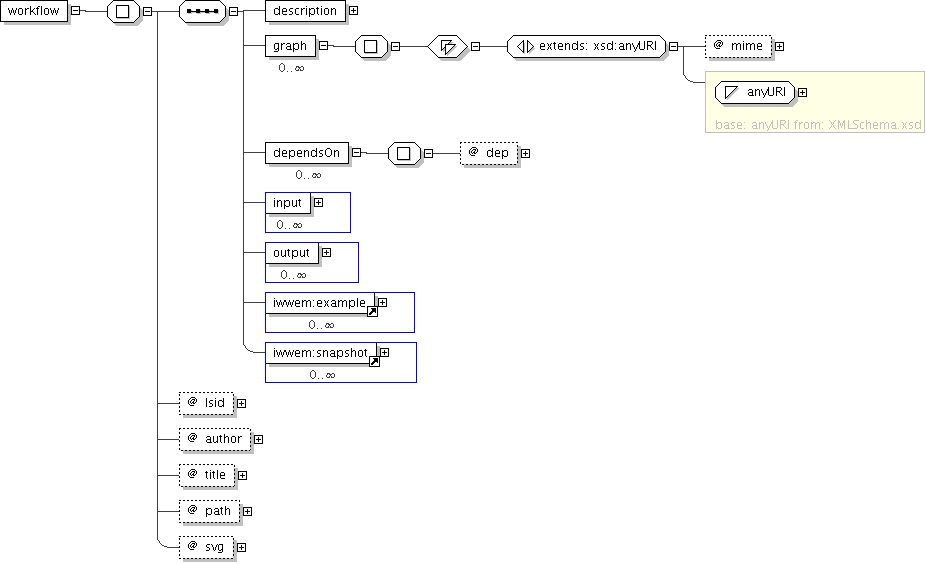
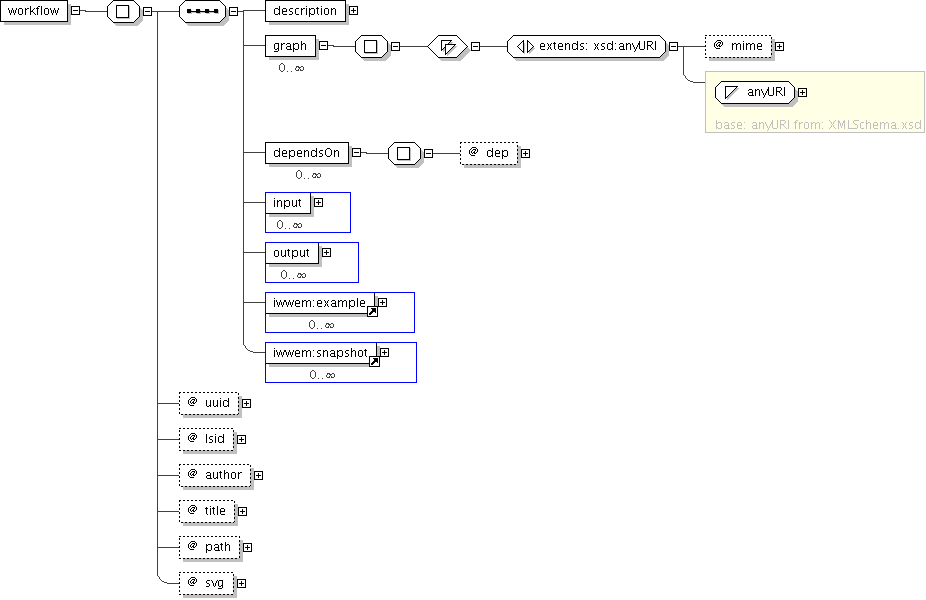
*	Added a more compact version of INB logotype. 	Small and tiny versions in PNG have been generated. *	Small logotype has been integrated into documentation and 	tiny one has been integrated into workflowmanager.html and 	enactionviewer.html. *	Added "id" parameter to workflowmanager frontend, which
git-svn-id: http://trac.bioinfo.cnio.es/svn/iwwem/trunk@188 d1dc078d-3102-4980-90c0-2a41560b4363

diff --git a/weblauncher/docs/frontends.html b/weblauncher/docs/frontends.html
@@ -5,7 +5,7 @@
 <style type="text/css">
 .frontend {
 	font-weight: bold;
-	font-family: "Lucida Console","Courier New", Courier;
+	font-family: Arial, Helvetica, Sans-Serif;
 }
 
 .parameter {
@@ -19,32 +19,36 @@
 }
 </style>
 <body>
-<div align="center"><h1>INB IWWE&amp;M v0.6 frontends ($Rev$, $Date$)</h1></div>
+<table style="margin:0px;padding:0px;width:100%;"><tr>
+<td style="text-align:left;font-style:italic;">$Date$</td>
+<td style="text-align:right;font-style:italic;">$Rev$</td>
+</tr></table>
+<div align="center"><h1 style="font-size:32px;"><a href="http://www.inab.org/"><img src="logo-inb-small.png" style="vertical-align:middle" alt="INB" title="INB" border="0"></a> <a href="http://ubio.bioinfo.cnio.es/biotools/IWWEM">IWWE&amp;M</a> v0.6 frontends</h1></div>
 Currently, IWWE&amp;M has 4 frontends, used by AJAX GUIs:
 <ul>
-<li><tt><a href="#workflowmanager">workflowmanager</a></tt></li>
-<li><tt><a href="#enactionlauncher">enactionlauncher</a></tt></li>
-<li><tt><a href="#enactionstatus">enactionstatus</a></tt></li>
-<li><tt><a href="#IWWEMproxy">IWWEMproxy</a></tt></li>
+<li><span class="frontend"><a href="#workflowmanager">workflowmanager</a></span></li>
+<li><span class="frontend"><a href="#enactionlauncher">enactionlauncher</a></span></li>
+<li><span class="frontend"><a href="#enactionstatus">enactionstatus</a></span></li>
+<li><span class="frontend"><a href="#IWWEMproxy">IWWEMproxy</a></span></li>
 </ul>
 <hr>
 
-<p>All these frontends use the concept of IDs: workflow IDs, example IDs, enaction IDs, snapshot IDs. All the unqualified IDs have the format of an <a href="http://en.wikipedia.org/wiki/UUID">UUID</a>, but there are some differences when the IDs are fully quilified:</p>
+<p>All these frontends use the concept of Ids: workflow Ids, example Ids, enaction Ids and snapshot Ids. All the unqualified Ids have the format of an <a href="http://en.wikipedia.org/wiki/UUID">UUID</a>, but there are some differences when the IDs are fully quilified:</p>
 <ul>
-<li>Any workflow ID has the format of an UUID, for instance 2365b91b-b7ae-4aa9-ae70-e8be4f40c0b3. So, workflow IDs have the same qualified and unqualified representation.</li>
-<li>As an example ID depends on a workflow, a fully qualified example ID has the format of "example:{wUUID}:{eUUID}", where wUUID is the workflow ID and eUUID is the example ID.
+<li>Any workflow Id has the format of an UUID, for instance <span class="value">2365b91b-b7ae-4aa9-ae70-e8be4f40c0b3</span>. So, workflow Ids have the same qualified and unqualified representation.</li>
+<li>As an example Id depends on a workflow, a fully qualified example Id has the format of <span class="value">example:{wUUID}:{eUUID}</span>, where <span class="value">wUUID</span> is the workflow Id and <span class="value">eUUID</span> is the example Id.
 For instance:
-<div align="center">example:0b4d3b5c-d4e7-4697-a831-7be74a35943b:f81c2a2a-3a85-454a-a9fe-077b2fcc6201</div>
+<div align="center"><span class="value">example:0b4d3b5c-d4e7-4697-a831-7be74a35943b:f81c2a2a-3a85-454a-a9fe-077b2fcc6201</span></div>
 </li>
-<li>Any enaction ID has the format of an UUID, for instance 7fd924fe-17de-428b-b5ca-607fab01eb9a. In some contexts it is needed to differenciate between a workflow ID and an enaction ID, so its qualified form is "enaction:{nUUID}", where nUUID is the enaction ID.
+<li>Any enaction Id has the format of an UUID, for instance <span class="value">7fd924fe-17de-428b-b5ca-607fab01eb9a</span>. In some contexts it is needed to differenciate between a workflow Id and an enaction Id, so its qualified form is <span class="value">enaction:{nUUID}</span>, where <span class="value">nUUID</span> is the enaction Id. An example of its qualified form is <span class="value">enaction:7fd924fe-17de-428b-b5ca-607fab01eb9a</span>
 </li>
-<li>As an snapshot ID depends on a workflow, a fully qualified snapshot ID has the format of
-"snapshot:{wUUID}:{sUUID}", where wUUID is the workflow ID and eUUID is the snapshot ID. For instance:
-<div align="center">snapshot:bd7c0e35-8749-45d9-9340-50f40d72de2f:fb71bf25-c17b-4345-a379-a52c1249ecb7</div>
+<li>As an snapshot Id depends on a workflow, a fully qualified snapshot Id has the format of
+<span class="value">snapshot:{wUUID}:{sUUID}</span>, where <span class="value">wUUID</span> is the workflow Id and <span class="value">sUUID</span> is the snapshot Id. For instance:
+<div align="center"><span class="value">snapshot:bd7c0e35-8749-45d9-9340-50f40d72de2f:fb71bf25-c17b-4345-a379-a52c1249ecb7</span></div>
 </li>
 </ul>
 
-<a name="workflowmanager"><div align="center"><h2>INB IWWE&amp;M: <span class="frontend">workflowmanager</span> frontend documentation and call parameters</h2></div></a>
+<a name="workflowmanager"><div align="center"><h2><a href="http://www.inab.org/"><img src="logo-inb-small.png" style="vertical-align:middle" alt="INB" title="INB" border="0"></a> <a href="http://ubio.bioinfo.cnio.es/biotools/IWWEM">IWWE&amp;M</a>: <span class="frontend">workflowmanager</span> frontend documentation and call parameters</h2></div></a>
 
 <div align="justify">
 <p>The <span class="frontend">workflowmanager</span> frontend is responsible of all the workflow repository management tasks,
@@ -64,6 +68,9 @@ When this frontend is called with no input parameter, it answers the detailed st
 parameters are used for the workflow repository maintenance:
 
 <ul>
+<li><u><span class="parameter">id</span> <i>(optional)</i></u>:
+When this parameter is set with an identifier (workflow Id, qualified enaction Id, qualified snapshot Id), <span class="frontend">workflowmanager</span> frontend change its default behavior, listing only this information instead of the default one (whole workflow repository listing). When this parameter is set with special keyword <span class="value">enaction:</span>, <span class="frontend">workflowmanager</span> frontend change its default behavior, listing whole enaction repository information as workflows. Last, when this parameter is set to a partially qualified snapshot Id, in the form of <span class="value">snapshot:{wUUID}</span>, <span class="frontend">workflowmanager</span> frontend change its default behavior, listing whole snapshot information associated to workflow <span class="value">{wUUID}</span> as workflows.
+</li>
 <li><u><span class="parameter">eraseId</span> <i>(optional, multiple)</i></u>:
 When this parameter is set with an identifier (workflow Ids, qualified example Ids, qualified enaction Ids, qualified snapshot Ids), <span class="frontend">workflowmanager</span> frontend disposes all the resources associated
 to the element labeled with that identifier before returning the workflow repository status. This parameter can be set many times,
@@ -86,7 +93,7 @@ by an <tt>xml</tt> tag (for Internet Explorer), and when parameter is <span clas
 
 <hr>
 
-<a name="enactionlauncher"><div align="center"><h2>INB IWWE&amp;M: <span class="frontend">enactionlauncher</span> frontend documentation and call parameters</h2></div></a>
+<a name="enactionlauncher"><div align="center"><h2><a href="http://www.inab.org/"><img src="logo-inb-small.png" style="vertical-align:middle" alt="INB" title="INB" border="0"></a> <a href="http://ubio.bioinfo.cnio.es/biotools/IWWEM">IWWE&amp;M</a>: <span class="frontend">enactionlauncher</span> frontend documentation and call parameters</h2></div></a>
 
 <div align="justify">
 <p>The <span class="frontend">enactionlauncher</span> frontend module is used to start an enaction process over a given input workflow or a previously stored one. As any program based on <a href="http://taverna.sourceforge.net/">Taverna</a> core uses lots of resources for any enaction process, <span class="frontend">enactionlauncher</span> must restrict the number of concurrent enaction instances, queuing further queries until an enaction slot is available for each one.</p>
@@ -126,7 +133,7 @@ These parameters were designed to upload new workflows to the workflow repositor
 </ul>
 
 <hr>
-<a name="enactionstatus"><div align="center"><h2>INB IWWE&amp;M: <span class="frontend">enactionstatus</span> frontend documentation and call parameters</h2></div></a>
+<a name="enactionstatus"><div align="center"><h2><a href="http://www.inab.org/"><img src="logo-inb-small.png" style="vertical-align:middle" alt="INB" title="INB" border="0"></a> <a href="http://ubio.bioinfo.cnio.es/biotools/IWWEM">IWWE&amp;M</a>: <span class="frontend">enactionstatus</span> frontend documentation and call parameters</h2></div></a>
 
 <div align="justify">
 <p>The frontend module <span class="frontend">enactionstatus</span> reports the status of an in-course or finished enaction.
@@ -160,7 +167,7 @@ be taken. <span class="parameter">snapshotName</span> has no restrictions in its
 </ul>
 
 <hr>
-<a name="IWWEMproxy"><div align="center"><h2>INB IWWE&amp;M: <span class="frontend">IWWEMproxy</span> frontend documentation and call parameters</h2></div></a>
+<a name="IWWEMproxy"><div align="center"><h2><a href="http://www.inab.org/"><img src="logo-inb-small.png" style="vertical-align:middle" alt="INB" title="INB" border="0"></a> <a href="http://ubio.bioinfo.cnio.es/biotools/IWWEM">IWWE&amp;M</a>: <span class="frontend">IWWEMproxy</span> frontend documentation and call parameters</h2></div></a>
 
 <div align="justify">
 <p>This frontend module was created to overcome some of the limitations of current browsers. Enaction process launched with <span class="frontend">enactionlauncher</span> save both inputs and ouputs of the whole process, intermediate steps and iterations in Baclava XML format. <a href="../enactionviewer.html">AJAX GUI Enaction Viewer</a> allows the end user to browse this information, but some data viewers it uses are only able to handle information coming from an URL. <span class="frontend">IWWEMproxy</span> is responsible of decoding, extracting and streaming this information under demand.
@@ -200,13 +207,12 @@ The virtual path to reach the value to return. These paths are similar to:
 <ul>
 <li><span class="value">gene_input</span>: An input (or output) with the name <span class="value">gene_input</span> and a single value</li>
 <li><span class="value">Genes/17/0</span>: An input (or output) with the name <span class="value">Genes</span> and a set of values. We are getting value <span class="value">0</span> from subset <span class="value">17</span> from <span class="value">Genes</span>. The number of nested subsets depend on the data structure</li>
-<li><span class="value">PDB_Enriched(structure)/#EnrichedPDB[0]</span>: An input (or output) with the name <span class="value">PDB_Enriched(structure)</span> and a single value, which has an interesting result identified and extracted by <span class="value">EnrichedPDB</span> pattern. The result 0 obtained when <span class="value">EnrichedPDB</span> pattern is applied to PDB_Enriched(structure) is returned.</li>
+<li><span class="value">PDB_Enriched(structure)/#EnrichedPDB[0]</span>: An input (or output) with the name <span class="value">PDB_Enriched(structure)</span> and a single value, which has an interesting result identified and extracted by <span class="value">EnrichedPDB</span> pattern. The value which is returned is the result <span class="value">0</span> obtained when <span class="value">EnrichedPDB</span> pattern is applied to <span class="value">PDB_Enriched(structure)</span>.</li>
 </ul>
 </li>
 </ul>
 
-Patterns used in <span class="parameter">IOPath</span> parameter are stored in the IWWE&amp;M server in an XML, which follows the XML Schema <a href="IWWEM-patterns.xsd">IWWEM-patterns.xsd</a> (<a href="IWWEM-patterns.xsd.html">documentation</a>).
-<br>Currently defined patterns are available at <a href="../EVpatterns.xml">EVpatterns.xml</a>
+Patterns used in <span class="parameter">IOPath</span> parameter are stored in the IWWE&amp;M server in an XML, which follows the XML Schema <a href="IWWEM-patterns.xsd">IWWEM-patterns.xsd</a> (<a href="IWWEM-patterns.xsd.html">documentation</a>). Currently defined global patterns are available at <a href="../EVpatterns.xml">EVpatterns.xml</a>
 
 </body>
 </html>

diff --git a/weblauncher/docs/IWWEM-messages.xsd.html b/weblauncher/docs/IWWEM-messages.xsd.html
@@ -898,7 +898,7 @@ if (gc != null) {
          </tr>
          <tr>
             <th>Documentation</th>
-            <td class="documentation">$Id: IWWEM-messages.xsd 1253 2008-04-01 17:59:37Z jmfernandez $
+            <td class="documentation">$Id: IWWEM-messages.xsd 1268 2008-04-07 17:29:30Z jmfernandez $
 	
 This schema was designed to model
 the messages between frontend modules and AJAX layer of
@@ -1773,7 +1773,7 @@ The textual content of this element is the description of the example (possibly 
                <span style="margin-left: 0.5em"> uuid="<span class="type">
                      <a href="#ns_xsd" title="Find out namespace of 'xsd' prefix">xsd</a>:string</span> 
                   <span class="occurs">[1]</span> 
-                  <p class="documentation">'The snapshot UUID. As this UUID has only meaning taking into account the context workflow, it is it unqualified form'</p>"</span>
+                  <p class="documentation">'The example UUID. As this UUID has only meaning taking into account the context workflow, it is it unqualified form'</p>"</span>
                <br/>
                <span style="margin-left: 0.5em"> name="<span class="type">
                      <a href="#ns_xsd" title="Find out namespace of 'xsd' prefix">xsd</a>:string</span> 
@@ -2559,10 +2559,10 @@ The textual content of this element is the description of the example (possibly 
             <img usemap="#h-507358049" src="schemaDiagrams/h-507358049.png"/>
             <!--
             Map ref: file:/home/jmfernandez/projects/INBWorkflowLauncher/weblauncher/docs//schemaDiagrams/h-507358049.map--><map name="h-507358049">
-               <area shape="rect" alt="h1073158951" coords="457,787,828,843"
+               <area shape="rect" alt="h1073158951" coords="457,839,828,895"
                      href="IWWEM-messages.xsd.html#h1073158951"/>
 
-               <area shape="rect" alt="h1550451623" coords="457,853,828,909"
+               <area shape="rect" alt="h1550451623" coords="457,905,828,961"
                      href="IWWEM-messages.xsd.html#h1550451623"/>
 
             </map>
@@ -2582,6 +2582,11 @@ The textual content of this element is the description of the example (possibly 
          </div>
          <div id="h1300956578_xibox" class="contents">
             <div style="margin-left: 0em">&lt;<a href="#ns_iwwem" title="Find out namespace of 'iwwem' prefix">iwwem</a>:workflow<br/>
+               <span style="margin-left: 0.5em"> uuid="<span class="type">
+                     <a href="#ns_xsd" title="Find out namespace of 'xsd' prefix">xsd</a>:string</span> 
+                  <span class="occurs">[1]</span> 
+                  <p class="documentation">'The workflow UUID. As the workflow can be in an enaction or an snapshot, it is always in qualified form'</p>"</span>
+               <br/>
                <span style="margin-left: 0.5em"> lsid="<span class="type">
                      <a href="#ns_xsd" title="Find out namespace of 'xsd' prefix">xsd</a>:string</span> 
                   <span class="occurs">[1]</span> 
@@ -2732,6 +2737,11 @@ The textual content of this element is the description of the example (possibly 
                         <span class="scTag">ref</span>="<span class="scContent">
                            <a href="#ns_iwwem" title="Find out namespace of 'iwwem' prefix">iwwem</a>:<a title="Jump to &#34;snapshot&#34; element declaration." href="#h1550451623">snapshot</a>
                         </span>" <span class="scTag">minOccurs</span>="<span class="scContent">0</span>" <span class="scTag">maxOccurs</span>="<span class="scContent">unbounded</span>"/&gt;</div>&lt;/<span class="scTag">xsd:sequence</span>&gt;</div>
+                  <div style="margin-left: 1.5em">&lt;<span class="scTag">xsd:attribute</span> 
+                     <span class="scTag">name</span>="<span class="scContent">uuid</span>" <span class="scTag">type</span>="<span class="scContent">
+                        <span class="type">
+                           <a href="#ns_xsd" title="Find out namespace of 'xsd' prefix">xsd</a>:string</span>
+                     </span>" <span class="scTag">use</span>="<span class="scContent">required</span>"/&gt;</div>
                   <div style="margin-left: 1.5em">&lt;<span class="scTag">xsd:attribute</span> 
                      <span class="scTag">name</span>="<span class="scContent">lsid</span>" <span class="scTag">type</span>="<span class="scContent">
                         <span class="type">

diff --git a/weblauncher/workflowmanager.html b/weblauncher/workflowmanager.html
@@ -1,6 +1,6 @@
 <html>
 <head>
-	<title>INB Web Workflow Manager v0.6</title>
+	<title>INB Interactive Web Workflow Manager v0.6</title>
 	<!--
 		$Id$
 		workflowmanager.html
@@ -25,7 +25,7 @@
 	<script type="text/javascript" src="js/workflowmanager.js"></script>
 </head>
 <body onload="InitIWWEM(WorkflowManagerCustomInit)" onunload="DisposeIWWEM(WorkflowManagerCustomDispose)">
-<div align="center"><b>INB Web Workflow Enactor &amp; Manager v0.6</b></div>
+<div align="center"><b><a href="http://www.inab.org/"><img src="style/inb-logo-tiny.png" style="vertical-align:middle" alt="INB" title="INB" border="0"></a> Interactive Web Workflow Enactor &amp; Manager v0.6</b></div>
 <form id="formManager" method="post" enctype="multipart/form-data">
 	<table style="width:100%;table-layout:fixed;">
 		<tr><td class="data" style="width:30%">

diff --git a/weblauncher/enactionviewer.html b/weblauncher/enactionviewer.html
@@ -33,7 +33,7 @@
 	<script type="text/javascript" src="js/enactionviewer.js"></script>
 </head>
 <body onload="InitIWWEM(EnactionViewerCustomInit)" onunload="DisposeIWWEM(EnactionViewerCustomDispose)">
-<div align="center"><b>INB Interactive Web Workflow Enaction Viewer v0.6</b></div>
+<div align="center"><b><a href="http://www.inab.org/"><img src="style/inb-logo-tiny.png" style="vertical-align:middle" alt="INB" title="INB" border="0"></a> Interactive Web Workflow Enaction Viewer v0.6</b></div>
 	<table style="width:100%;table-layout:fixed;">
 		<tr><td class="middle">
 			<u>Report date</u>: <span id="dateSpan"><i>(empty)</i></span><br>
